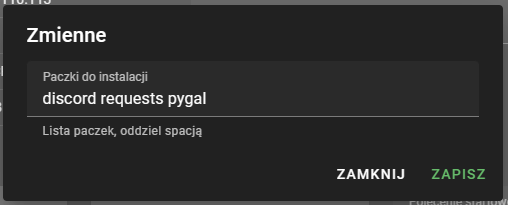
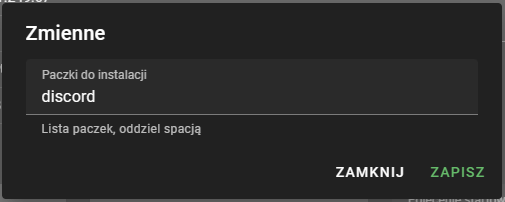
change image of example libs, fix unban ip command

diff --git a/Minecraft/Komendy/komendy.md b/Minecraft/Komendy/komendy.md
@@ -13,7 +13,7 @@ W tej sekcji znajdziesz podstawowe komendy pomocne w zarządzaniu serwerem Minec
  `/ban [nick]`          | Banuje gracza.
  `/ban-ip [nick]`       | Banuje gracza na adres IP.
  `/pardon [nick]`       | Odbanowuje gracza.
- `/pardon [nick]`       | Odbanowuje IP gracza.
+ `/pardon-ip [nick]`       | Odbanowuje IP gracza.
  `/kick [nick]`       | Wyrzuca gracza z serwera.
  `/difficulty [peaceful|easy|normal|hard]` | Zmienia poziom trudności z poziomu serwera.
  `/gamemode [creative|survival|adventure|spectator]` | Zmienia tryb gry gracza.
